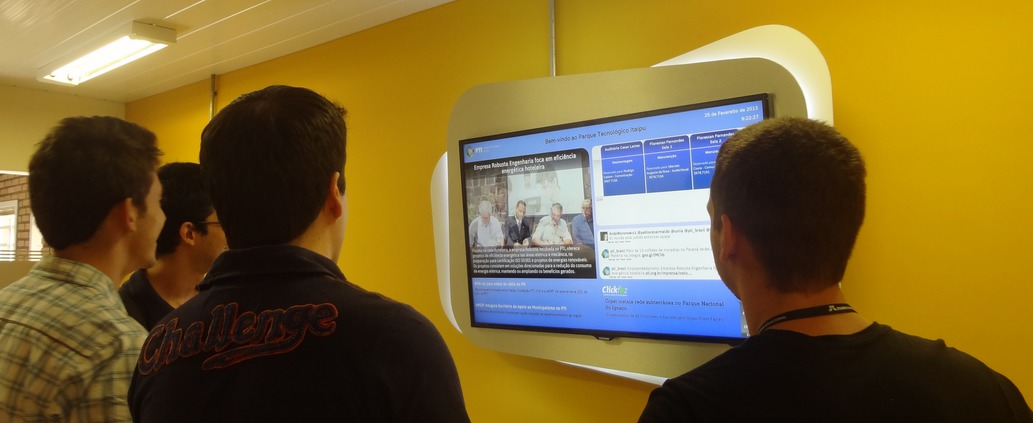
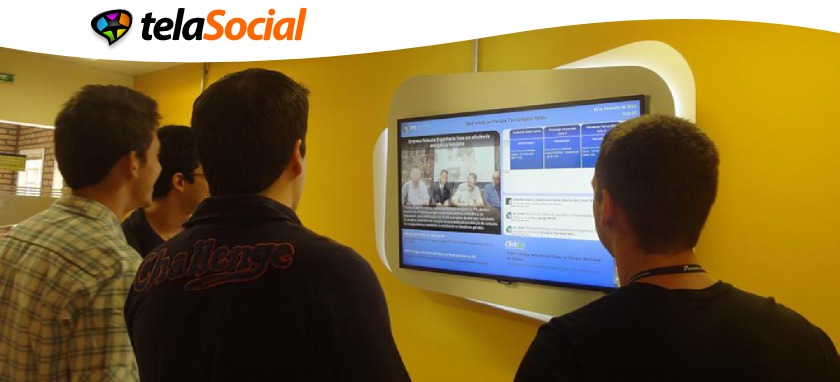
image

diff --git a/theme/frontpage.html b/theme/frontpage.html
@@ -34,15 +34,12 @@ function start() {
 
 
     <div style='max-width:1020px;margin:auto'>
-        <img src="/images/sinalizacao-digital-telasocial-bg.png" width="130" align='middle' style="float:right;background:rgba(0,0,0,1);border-bottom:5px solid rgba(0,0,0,.2)" alt="sinalização digital interativa" title="sinalização digital" />
-
-                <h1 style="color: white; float: left; ; margin-top: 330px;"><span style="border-top-right-radius: 25px; border-bottom-left-radius: 25px; background-color: rgba(0,0,0,1); box-shadow: 0 0 0px white, 0 0 0px white; ;padding: 1em;">Sinalização Digital Interativa</span> </h1>
 
 
         </div
 
 
-<div class="section-background-odd" id='slide1' style="background: black url('/images/challenge.jpg') center no-repeat;height:370px" >
+<div class="section-background-odd" id='slide1' style="background: black url('/images/challenge2.jpg') center no-repeat;height:370px" >
 <div class="sections" >
 
 <div class="column-medium" >
